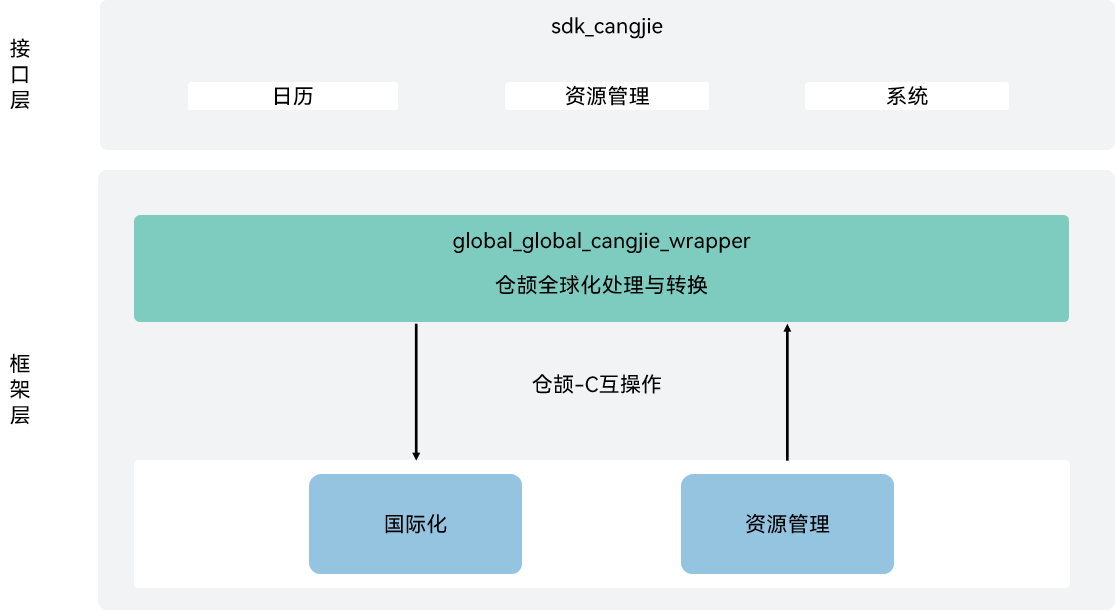
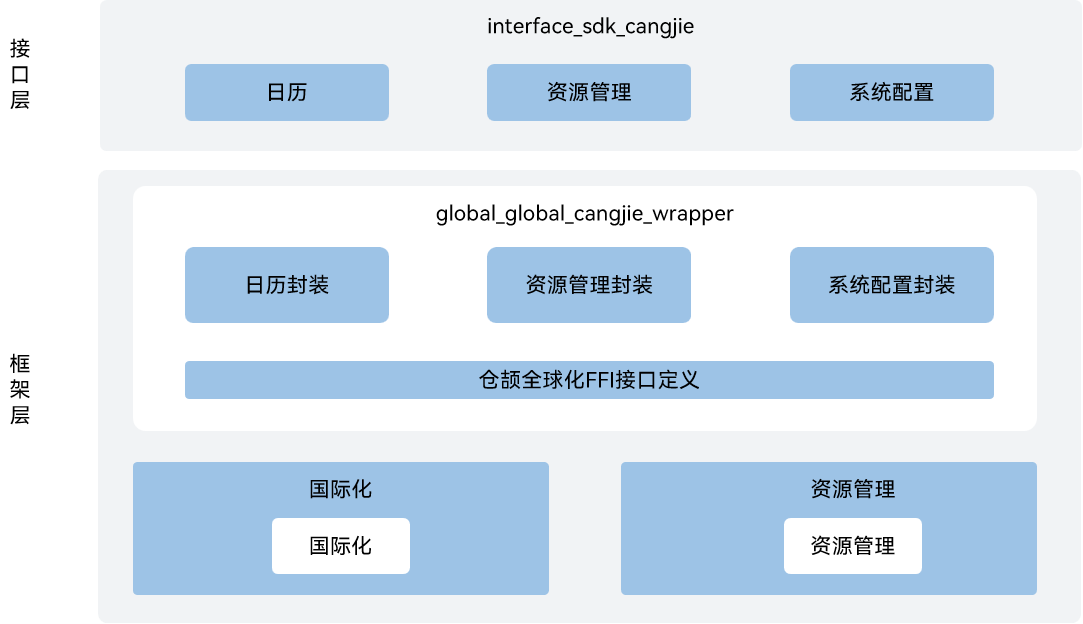
修改仓颉global子系统描述

diff --git a/README_zh.md b/README_zh.md
@@ -2,16 +2,17 @@
 
 ## 简介
 
-全球化仓颉接口是在 OpenHarmony 上基于全球化子系统能力之上封装的仓颉API。当OpenHarmony系统/应用在全球不同区域使用时，系统/应用需要满足不同市场用户关于语言、文化习俗的需求。全球化仓颉提供支持多语言、多文化的能力，包括：
+全球化仓颉接口是在OpenHarmony上基于全球化子系统能力之上封装的仓颉API。当OpenHarmony系统/应用在全球不同区域使用时，系统/应用需要满足不同市场用户关于语言、文化习俗的需求。全球化仓颉提供支持多语言、多文化的能力，包括：
 
 -   **资源管理能力**
 
-    根据设备类型、系统配置等信息，对系统资源和应用资源加载、解析和初始化，对外提供获取字符串、媒体等资源的接口。
+    根据设备类型、系统配置等信息，对应用资源加载、解析和初始化，对外提供获取字符串、媒体等资源的接口。
 
 -   **国际化能力**
 
     提供底层的资源回溯能力，同时对外提供丰富的国际化接口，包括日历功能等。
 
+当前开放的全球化仓颉接口仅支持standard设备。
 
 ## 系统架构
 
@@ -20,30 +21,43 @@
 
 ![](figures/global_cangjie_wrapper_architecture.png "全球化仓颉架构图")
 
+如架构图所示：
+
+- 日历：提供获取和设置日历属性的能力，如时间，时区等。
+- 资源管理（接口层）：提供应用资源获取的能力。
+- 系统配置：提供获取应用偏好语言能力。
+- 仓颉全球化FFI接口定义：负责定义C互操作仓颉接口，用于实现全球化的能力。
+- 国际化：负责提供国际化基础功能，封装C接口提供给仓颉进行互操作。
+- 资源管理（框架层）：负责提供资源管理基础功能，封装C接口提供给仓颉进行互操作。
+
 ## 目录
 
 ```
 base/global/global_cangjie_wrapper
-├── ohos             # 仓颉全球化接口实现
-├── kit              # 仓颉kit化代码
-├── figures          # 存放readme中的架构图
+├── figures                 # 存放README中的架构图
+├── kit                     # 仓颉LocalizationKit的kit化代码
+│   └── LocalizationKit
+└── ohos                    # 仓颉全球化接口实现
+    ├── BUILD.gn
+    ├── i18n
+    ├── raw_file_descriptor
+    ├── resource
+    └── resource_manager
 ```
-
-## 约束
-
-当前开放的全球化仓颉接口仅支持standard设备。
 
 ## 使用说明
 
-如架构图所示，全球化仓颉接口提供了以下功能接口，开发者可以根据使用诉求，综合使用一类或多类接口：
+全球化仓颉接口提供了以下功能接口，开发者可以根据使用诉求，综合使用一类或多类接口：
 
-  - 资源管理模块提供系统和应用资源获取的能力。
-  - i18n模块提供获取应用偏好语言，支持日历相关功能。
+  - 日历提供获取和设置日历属性的能力，如时间，时区等。
+  - 资源管理提供应用资源获取的能力。
+  - 系统配置提供获取应用偏好语言能力。
 
 与ArkTS相比，暂不支持以下功能：
 
-  - Intl模块相关能力。
+  - 日期格式化、数字格式化、排序。
   - 区域管理、电话号码处理、文本处理、时区和节假日管理等功能。
+  - 跨线程传输资源对象。
 
 全球化相关API请参见：
 1. [ohos.i18n](https://gitcode.com/openharmony-sig/arkcompiler_cangjie_ark_interop/blob/master/doc/API_Reference/source_zh_cn/apis/LocalizationKit/cj-apis-i18n.md)
@@ -56,6 +70,14 @@ base/global/global_cangjie_wrapper
 [global_i18n](https://gitee.com/openharmony/global_i18n)
 
 [global_resource_management](https://gitee.com/openharmony/global_resource_management)
+
+[arkcompiler_cangjie_ark_interop](https://gitcode.com/openharmony-sig/arkcompiler_cangjie_ark_interop)
+
+[hiviewdfx_hiviewdfx_cangjie_wrapper](https://gitcode.com/openharmony-sig/hiviewdfx_hiviewdfx_cangjie_wrapper)
+
+[arkui_arkui_cangjie_wrapper](https://gitcode.com/openharmony-sig/arkui_arkui_cangjie_wrapper)
+
+[arkui_ace_engine](https://gitee.com/openharmony/arkui_ace_engine)
 
 ## 参与贡献
 

diff --git a/README.md b/README.md
@@ -12,6 +12,7 @@ The global_cangjie_wrapper is a Cangjie API encapsulated on OpenHarmony based on
 
     The subsystem provides the bottom-layer resource backtracking capabilities, with a wide array of i18n APIs for implementing functions such as calendar.
 
+The currently open Ability Cangjie api only supports standard devices.
 
 ## Architecture
 
@@ -20,30 +21,43 @@ The global_cangjie_wrapper is a Cangjie API encapsulated on OpenHarmony based on
 
 ![](figures/global_cangjie_wrapper_architecture_en.png "architecture-of-the-global_cangjie_wrapper")
 
+As shown in the architecture:
+
+- Calendar: Provides the capability to obtain and set calendar properties, such as time, time zone, etc.
+- ResourceManager: Provides the capability for application resource acquisition.
+- System: Provides the capability to obtain the application's preferred language.
+- Cangjie Global FFI interface: Based on cross-language interoperability via C interfaces to implement global Cangjie API.
+- i18n: Responsible for providing basic internationalization functions, and encapsulates C interfaces for Cangjie to conduct interoperation.
+- resource_management: Responsible for providing basic resource management functions, and encapsulates C interfaces for Cangjie to conduct interoperation.
+
 ## Directory Structure
 
 ```
 base/global/global_cangjie_wrapper
-├── ohos             # Cangjie Globalization Subsystem code
-├── kit              # Cangjie kit code
-├── figures          # architecture pictures
+├── figures                 # architecture pictures
+├── kit                     # Cangjie LocalizationKit kit code
+│   └── LocalizationKit
+└── ohos                    # Cangjie Global code
+    ├── BUILD.gn
+    ├── i18n
+    ├── raw_file_descriptor
+    ├── resource
+    └── resource_manager
 ```
-
-## Constraints
-
-The currently open Global Cangjie api only supports standard devices.
 
 ## Usage Guidelines
 
 The following features are provided:
 
-  - ResourceManager
-  - i18n Calendar
+- Calendar provides the capability to obtain and set calendar properties, such as time, time zone, etc.
+- ResourceManager provides the capability for application resource acquisition.
+- System provides the capability to obtain the application's preferred language.
 
 The following features are not provided yet:
 
- - Intl
- - i18n others.
+- Date formatting, number formatting, and sorting.
+- Functions such as region management, phone number processing, text processing, time zone and holiday management.
+- Cross-thread transmission of resource objects.
 
 For Global-related APIs, please refer to
 1. [ohos.i18n](https://gitcode.com/openharmony-sig/arkcompiler_cangjie_ark_interop/blob/master/doc/API_Reference/source_en/apis/LocalizationKit/cj-apis-i18n.md)
@@ -56,6 +70,14 @@ For relevant guidance, please refer to [Internationalization Development Guide](
 [global_i18n](https://gitee.com/openharmony/global_i18n)
 
 [global_resource_management](https://gitee.com/openharmony/global_resource_management)
+
+[arkcompiler_cangjie_ark_interop](https://gitcode.com/openharmony-sig/arkcompiler_cangjie_ark_interop)
+
+[hiviewdfx_hiviewdfx_cangjie_wrapper](https://gitcode.com/openharmony-sig/hiviewdfx_hiviewdfx_cangjie_wrapper)
+
+[arkui_arkui_cangjie_wrapper](https://gitcode.com/openharmony-sig/arkui_arkui_cangjie_wrapper)
+
+[arkui_ace_engine](https://gitee.com/openharmony/arkui_ace_engine)
 
 ## Code Contribution
 
